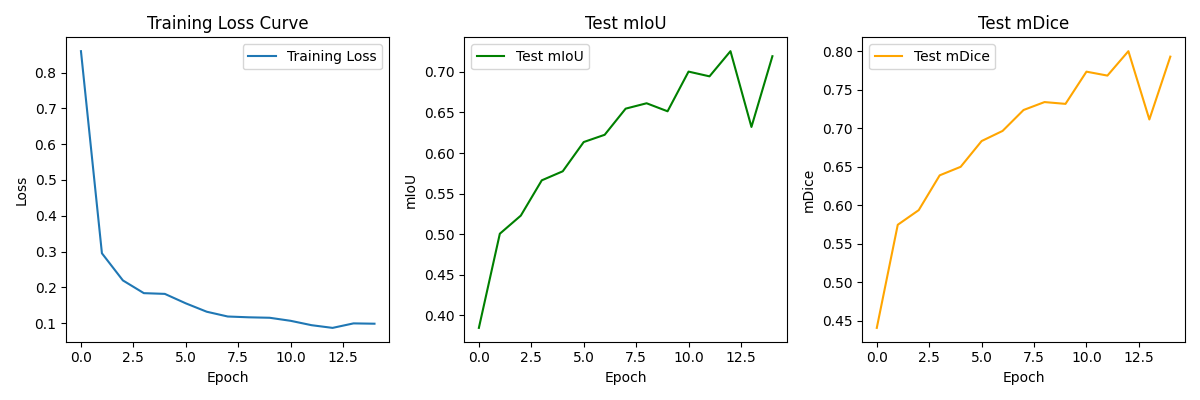
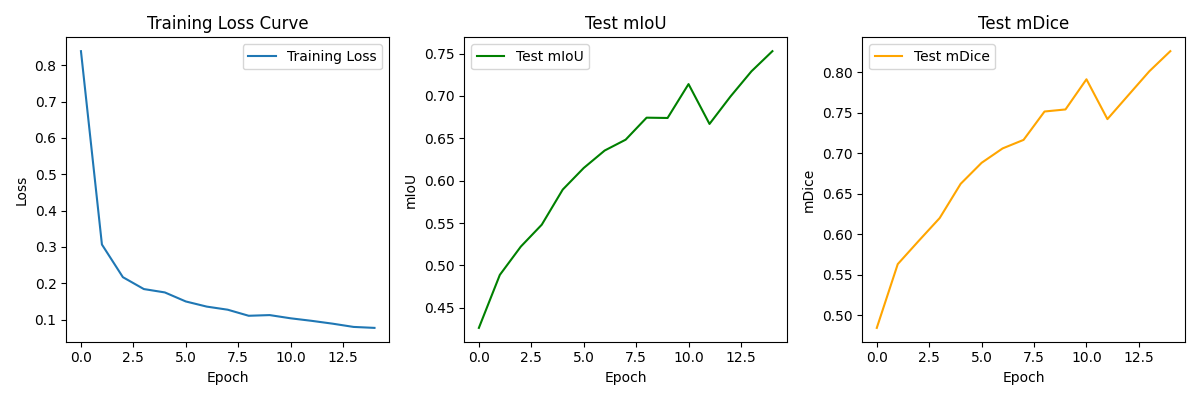
Add Question2 test metrics to README

diff --git a/Q2/streamlit.py b/Q2/streamlit.py
@@ -15,7 +15,7 @@ st.set_page_config(page_title="CityScapes Segmentation", layout="wide")
 def load_model():
     from pipeline import UNet   # if not imported globally
     model = UNet(in_channels=3, out_channels=23)
-    model.load_state_dict(torch.load('unet_cityscapes.pth', map_location='cpu'))
+    model.load_state_dict(torch.load('unet_cityscapes.pth', map_location='cuda'))
     model.eval()
     return model
 
@@ -94,7 +94,7 @@ def page2():
                 # This assumes the mask file has the same name as the image.
                 # Adjust the path logic as needed.
                 mask_filename = file.name
-                mask_path = os.path.join("data/CameraMask", mask_filename)
+                mask_path = os.path.join("CameraMask", mask_filename)
                 if os.path.exists(mask_path):
                     true_mask = np.array(Image.open(mask_path))
                     st.image(true_mask, caption="Ground Truth", use_column_width=True)
